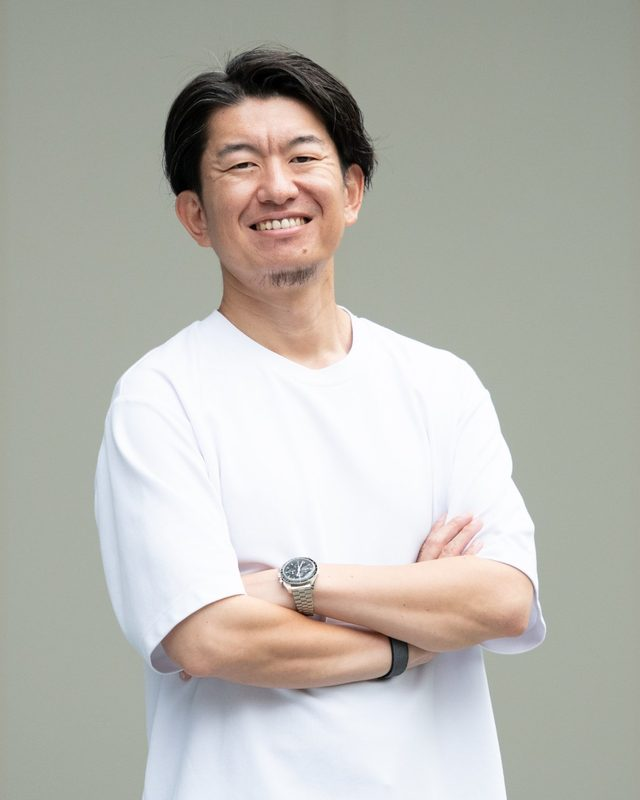
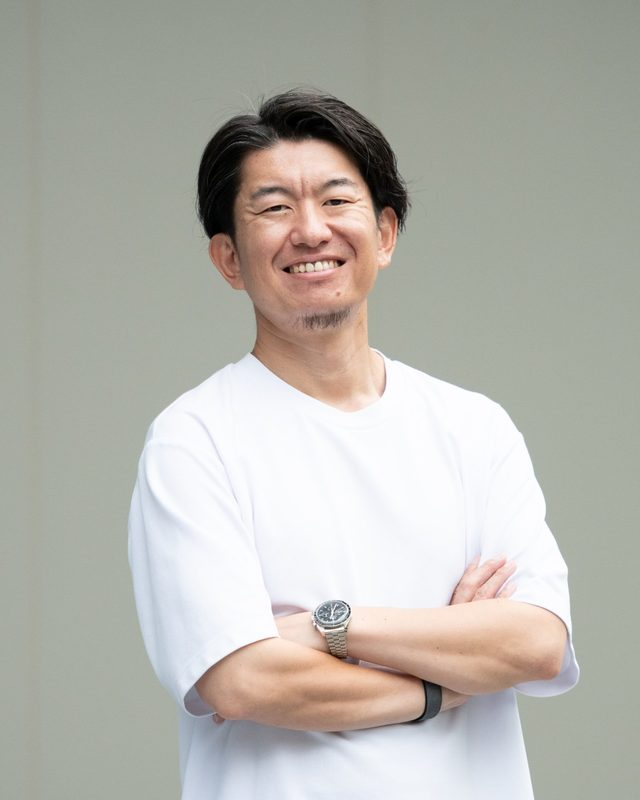
プロフィール写真の切り抜き位置を調整
Claude-Session: https://claude.ai/code/session_01UKgKGqsL3MaaPCvU3b7fPH

Changed region(s): [[0.125, 0.0625, 0.9062, 1.0]]

diff --git a/index.html b/index.html
@@ -141,7 +141,7 @@
     <div class="narrow">
       <h2>PROFILE</h2>
       <div class="profile">
-        <img src="/assets/profile.jpg?v=5" alt="早川 良太" width="220" height="275">
+        <img src="/assets/profile.jpg?v=6" alt="早川 良太" width="220" height="275">
         <div class="body">
           <p class="role">代表取締役</p>
           <p class="name">早川 良太</p>
